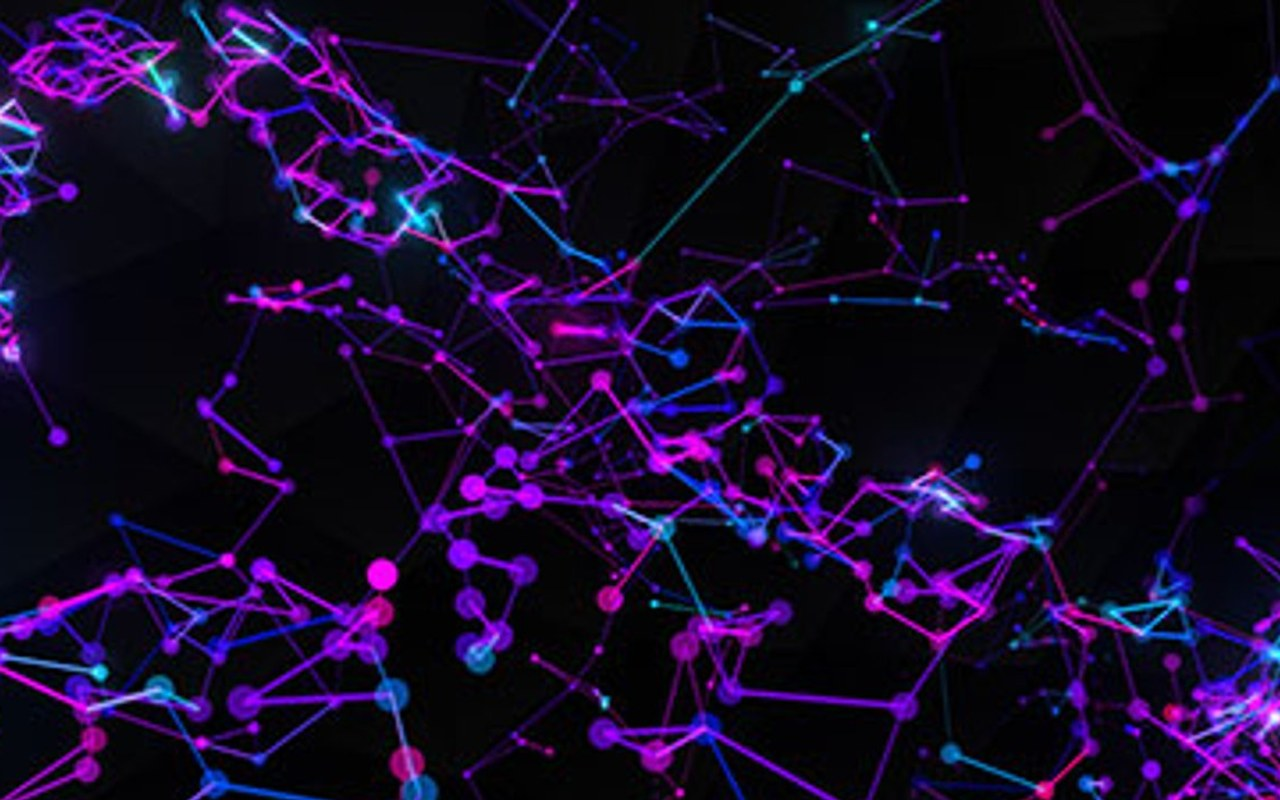
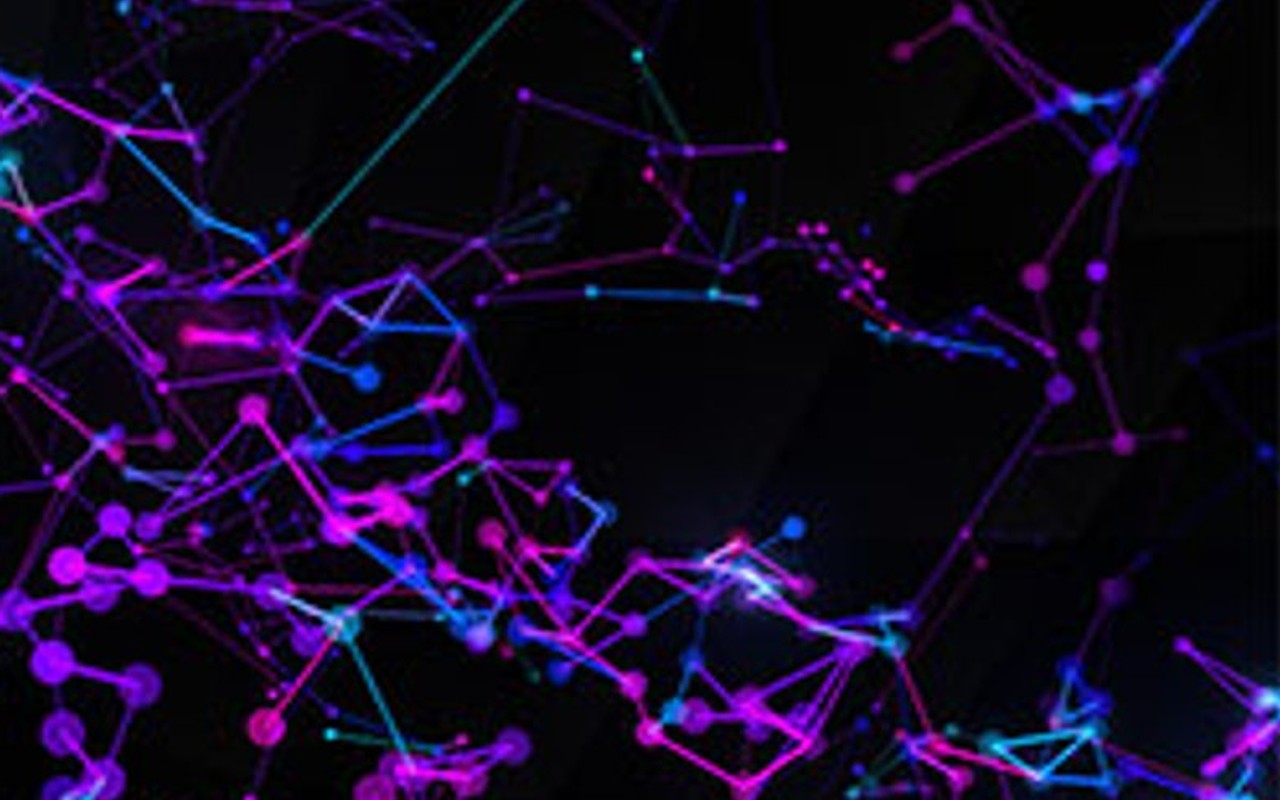
Differentiate TSL Linked Particles blog stills with distinct poster crops.

diff --git a/src/blog/posts/demoPostCatalog.ts b/src/blog/posts/demoPostCatalog.ts
@@ -503,8 +503,8 @@ export const DEMO_POST_SPECS: DemoPostSpec[] = [
     glossary: [{"term":"Nearest-neighbor links","def":"lines drawn between particles that are close in space"},{"term":"Turbulence","def":"noisy force field that curls particle motion"},{"term":"Bloom","def":"post-process glow around bright pixels"},{"term":"TSL VFX","def":"effects authored with Three.js Shading Language nodes"}],
     trySteps: ["Open the [TSL Linked Particles demo](/demos/webgpu-tsl-linked-particles/)","Move the pointer across the canvas to draw trails","Pause and watch links and hue shift as particles live out","Orbit if enabled; note bloom on bright clusters"],
     requirements: ["**Browser:** WebGPU (Chrome/Edge recommended)","**GPU:** bloom + compute want a bit of headroom — close other heavy tabs if needed","**Input:** mouse or trackpad; touch may vary by device"],
-    viewA: {"file":"view-a.jpg","caption":"Drawn trail — particles and neighbor link ribbons"},
-    viewB: {"file":"view-b.jpg","caption":"Bloom pass — glowing clusters after motion"},
+    viewA: {"file":"view-a.jpg","caption":"Dense left cluster — magenta links with cyan accents"},
+    viewB: {"file":"view-b.jpg","caption":"Closer mesh — bloomed nodes and neighbor ribbons"},
     alsoCan: ["Map pointer to touch / wand for installations","Recolor hue cycle to brand palette","Compare [webgpu_tsl_vfx_linkedparticles](https://threejs.org/examples/#webgpu_tsl_vfx_linkedparticles)"],
     howWorks: `WebGPU compute spawns and advects particles; TSL materials render sprites/ribbons; a link pass connects nearby particles; bloom post-processes the frame. Upstream: [webgpu_tsl_vfx_linkedparticles](https://threejs.org/examples/#webgpu_tsl_vfx_linkedparticles) ([source](https://github.com/mrdoob/three.js/blob/dev/examples/webgpu_tsl_vfx_linkedparticles.html)). WebGL line networks (see draw-range) are a related visual idea with a different, more widely supported pipeline.`,
     faq: [{"q":"Is this the same as the shape particles demo?","a":"No — that one forms solid presets and gravity. This one is pointer-drawn VFX with links and bloom."},{"q":"Can we slow it down for a calm brand film?","a":"Yes — spawn rate, turbulence, and bloom thresholds are typical knobs."}],

diff --git a/src/blog/posts/demoPostBuilder.ts b/src/blog/posts/demoPostBuilder.ts
@@ -63,7 +63,7 @@ const SECTION_LABEL: Record<DemoSection, string> = {
  * Bump when recapturing blog stills. Vercel serves /assets/* with
  * max-age=1y immutable — same path keeps old bytes in the browser.
  */
-export const BLOG_ASSET_CACHE_V = '20260718h'
+export const BLOG_ASSET_CACHE_V = '20260718i'
 
 export function buildDemoBlogPost(spec: DemoPostSpec): BlogPost {
   const sectionLink = SECTION_ANCHOR[spec.section]